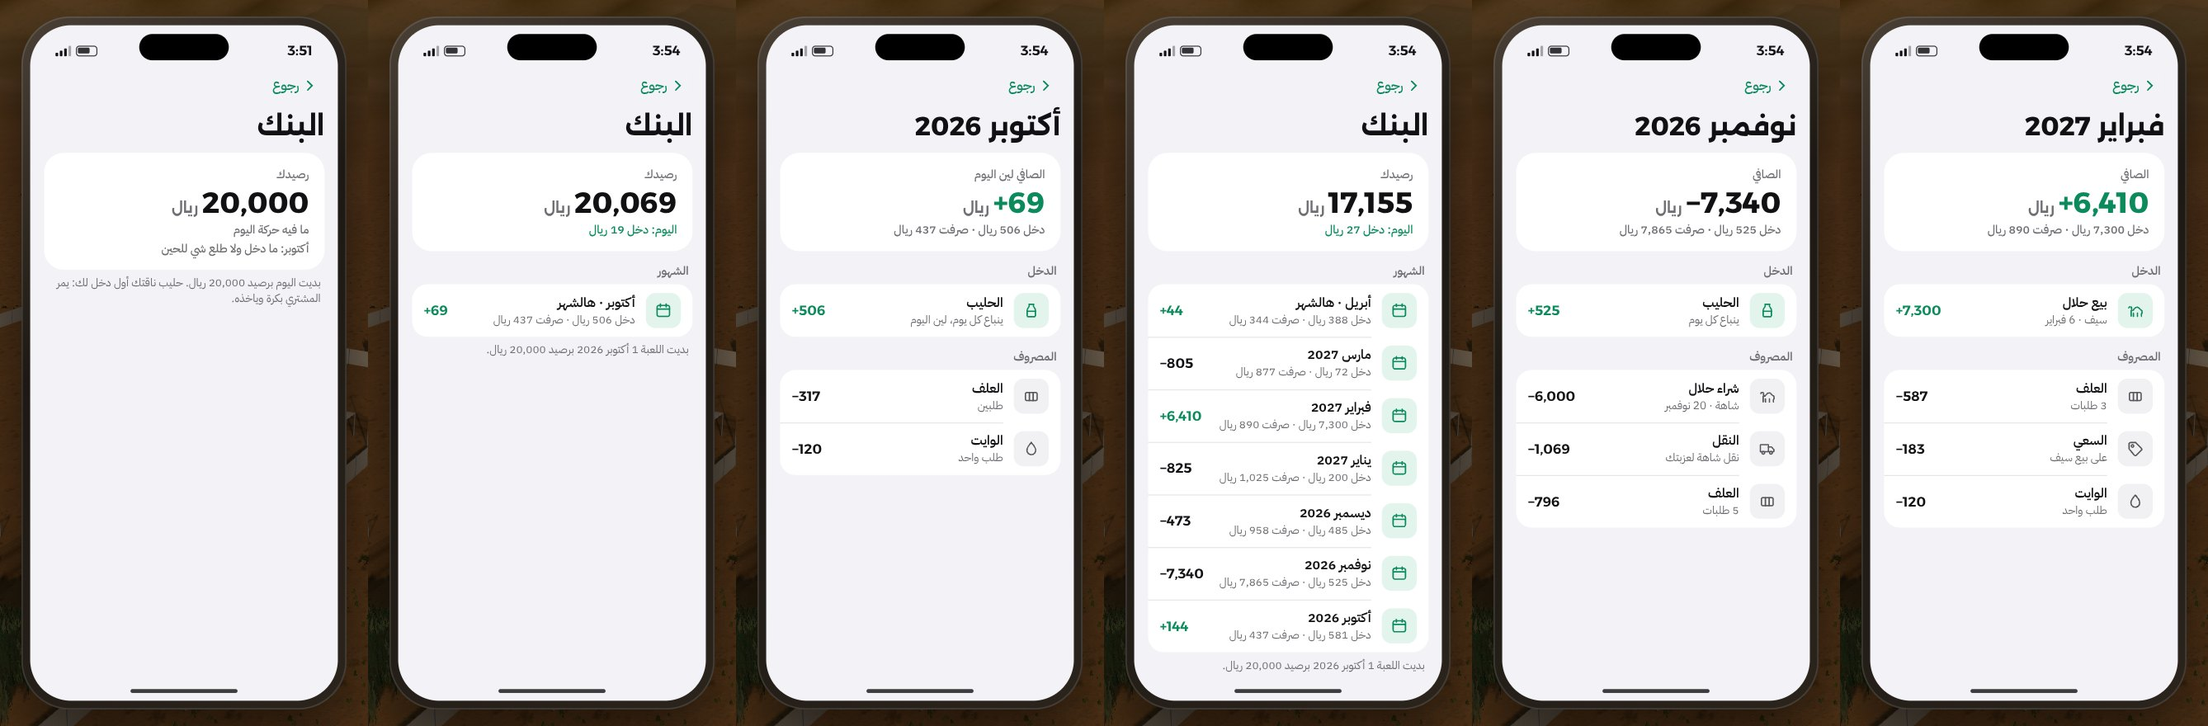
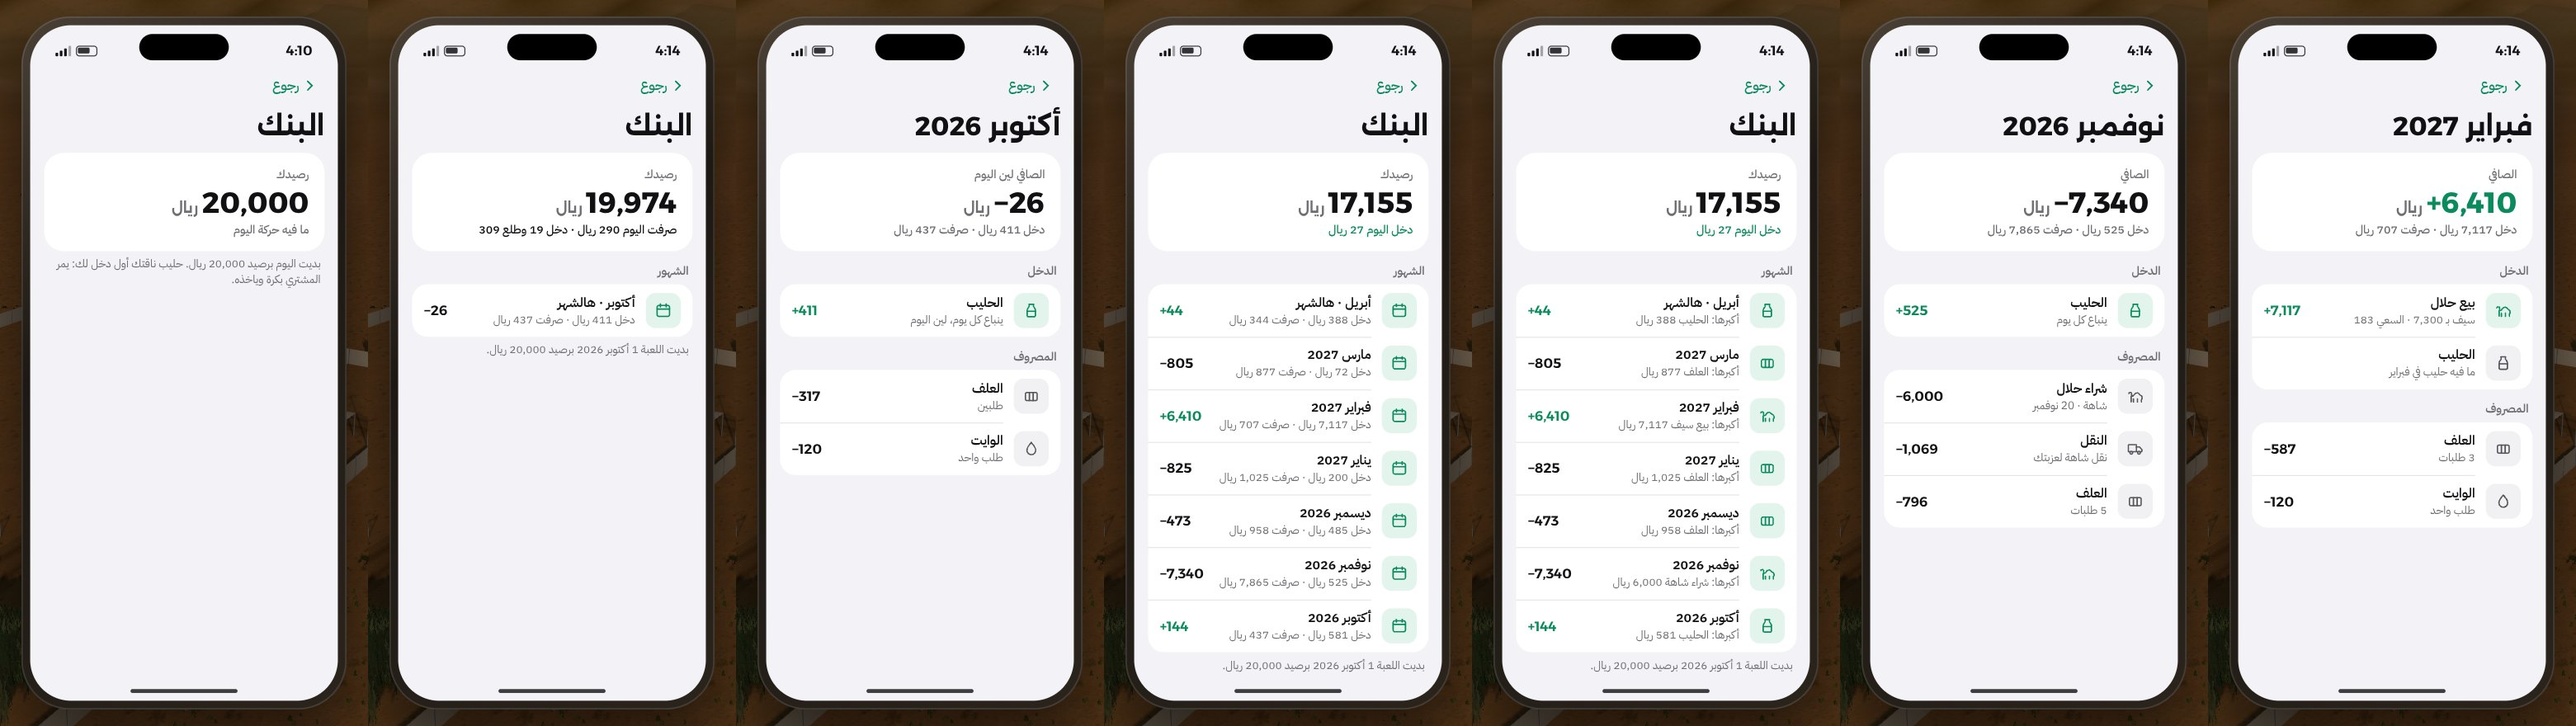
Bank design: act on the review of 9db7f30
- Today's line agrees with the home widget: the net first in its words
  («صرفت اليوم 290 ريال»), then «دخل 19 وطلع 309» when money moved both
  ways; green only when money only came in. Drawn on 22 Oct after that
  day's orders (todayNet -290: milk +19, alfalfa -189, tanker -120), the
  moment now taken after the day's top-up.
- Each row counts its own thing: نقلة, علاج, جائزة, تلقيح, منشأة; several
  sales and purchases by head.
- Refs: a facility by the العزبة app's name, never a raw id or enum (the
  dump gives refKind and null for a ref it cannot name); a transport row
  phrased by its reason (camel home, to the stud, a festival there and
  back), read from the rows beside it since the ledger does not keep it.
- السعي goes with its sale: the sale row is what reached the player
  (+7,117: «سيف بـ 7,300 · السعي 183»), as الحراج says «يوصلك بعد السعي»;
  month in and out follow (Feb: in 7,117, out 707, net unchanged).
- A month without milk says so; day one drops the repeated month line,
  and the milk buyer's note shows only when the day's milking sells some.
- The alternative main screen drawn beside it: each month names its
  biggest movement, with that kind's icon («أكبرها: شراء شاهة 6,000 ريال»).
- DRY=1 prints each screen's words without a browser.

Seven screens, all fit (scrollHeight 628 = clientHeight), no wraps; the
sums are checked before drawing (opening + month nets = cash; today's
in - out = todayNet).
[…]

diff --git a/design/ui/phone_bank_data.dart b/design/ui/phone_bank_data.dart
@@ -1,5 +1,6 @@
 // The bank design's data (design/ui/phone_bank.cjs): a new game played forward by the rules engine itself, its
-// ledger read at three moments: day one, a month in (milk and feed only), and six and a half months in. Nothing here
+// ledger read at three moments: day one; 22 October after that day's orders (money in and out the same day: the
+// milk, an alfalfa order and a tanker); and 15 April 2027, six and a half months in. Nothing here
 // is example content: every row is one the engine wrote (Sim.pay, Sim.bill). Only the player's choices are scripted,
 // a careful beginner's (a game choice, for the picture):
 //   * feed and water topped up to three weeks when under ten days, as the bot does (packages/marah_domain/lib/src/
@@ -35,19 +36,38 @@ void main(List<String> args) {
   final log = <String>[];
 
   // the moment as the bank would show it: the balance, today's net (GameView.todayNet, as the home widget has it),
-  // and every ledger row, its camel or festival named where it has one
+  // the milk sold at today's milking (what the milk app reads: farm.milk.sold), and every ledger row with what its
+  // ref points at: a camel or a festival by its name, a facility by its enum name (the screens name it as the العزبة
+  // app does), never the raw id (null when the ref is found nowhere). A transport row's reason is not in the ledger:
+  // it is read here from the rows beside it (a purchase of the same camel that day: the camel trucked home; a
+  // festival's id: there and back; else a mating's: the female trucked to the stud, handlers.dart _mate).
   void take(String key) {
     final v = view();
     final w = game.state.world;
-    String? refName(String? ref) {
-      if (ref == null) return null;
-      for (final c in w.camels.values) {
-        if (c.id.value == ref) return c.name;
-      }
+    final ledger = v.me.ledger;
+    ({String? kind, String? name}) refOf(String? ref) {
+      if (ref == null) return (kind: null, name: null);
+      final c = w.camels[CamelId(ref)];
+      if (c != null) return (kind: 'camel', name: c.name);
       for (final f in w.festivals.values) {
-        if (f.id.value == ref) return f.name;
+        if (f.id.value == ref) return (kind: 'festival', name: f.name);
       }
-      return ref; // (a facility's name)
+      for (final f in Facility.values) {
+        if (f.name == ref) return (kind: 'facility', name: f.name);
+      }
+      return (kind: null, name: null);
+    }
+
+    String? why(LedgerEntry l) {
+      if (l.category != LedgerCategory.transport) return null;
+      if (refOf(l.ref).kind == 'festival') return 'festival';
+      final bought = ledger.any(
+        (x) =>
+            x.category == LedgerCategory.purchase &&
+            x.ref == l.ref &&
+            x.day == l.day,
+      );
+      return bought ? 'purchase' : 'mating';
     }
 
     (out['moments']! as List).add({
@@ -58,16 +78,19 @@ void main(List<String> args) {
       'todayNet': v.todayNet.value,
       'milkIncomeToday': v.milkIncomeToday,
       'milkThisMonth': v.milkThisMonth.value,
+      'milkSold': v.milk.fold<double>(0, (n, m) => n + m.sold),
       'herd': v.herd.length,
       'ledger': [
-        for (final l in v.me.ledger)
+        for (final l in ledger)
           {
             'day': l.day.value,
             'date': l.day.date.toIso8601String().substring(0, 10),
             'cat': l.category.name,
             'amount': l.amount.value,
             'ref': l.ref,
-            'refName': refName(l.ref),
+            'refKind': refOf(l.ref).kind,
+            'refName': refOf(l.ref).name,
+            'why': why(l),
             'month': l.month,
           },
       ],
@@ -115,6 +138,7 @@ void main(List<String> args) {
     final v = view();
     final d = v.today.date;
     topUp();
+    if (d.month == 10 && d.day == 22) take('october');
     if (d.month == 11 && d.day == 20) {
       final cash = v.me.cash.value;
       final pick =
@@ -189,8 +213,6 @@ void main(List<String> args) {
     game.advanceDays(1);
     final problems = checkInvariants(game.state);
     if (problems.isNotEmpty) throw StateError(problems.first);
-    final t = game.today.date;
-    if (t.month == 10 && t.day == 27) take('october');
   }
   take('april');
   out['log'] = log;

diff --git a/design/ui/README.md b/design/ui/README.md
@@ -9,7 +9,7 @@ These mockups were reviewed by agents and approved by the owner. Only the inform
 | `phone_supplies.html`, `phone_supplies_water.jpg`, `phone_supplies_feed.jpg` | الوايت and العلف in the phone, and the home screen's date and season (approved 2026-11-12). Add `&big=1` to see a screen as the game enlarges it. |
 | `phone_start_home.jpg`, `phone_start_milk.jpg`, `phone_start_build.jpg` (drawn by `phone_start.cjs`) | The new start (one nursing she-camel and her calf, SAR 20,000): the home screen with الحليب, العزبة and الحراج, the milk app (sold every day; how much is left for the calf) and the farm app (what you have, and the facilities you can buy and their prices), approved 2026-11-13. |
 | `phone_haraj.jpg` (drawn by `phone_haraj.cjs` with `phone_haraj.css`) | الحراج on the engine: the listings, a camel's page (buy, or haggle three times a seller), selling one's own camel (listed at one's price or to the broker now), and one's listings with their offers; the old design's «على السوم» tab and live auction left out (every listing takes offers; the auctions come later), approved 2026-11-13. |
-| `phone_bank.jpg` (drawn by `phone_bank.cjs` with `phone_bank.css`, its figures from `phone_bank_data.dart`, dumped to `phone_bank.json`) | **Awaiting the owner's approval.** البنك on the engine's own ledger (a new game, seed 4242, played forward by the engine): the main screen on day one, a month in and six and a half months in (the balance, today's money in and out, each month's in, out and net, the opening balance in a line), and a month opened (what came in and what went out by kind, and the net): October (milk, feed, one tanker), November (a camel bought and trucked) and February (the calf sold, السعي, no milk). The approved design's تحويل, طلب مبلغ, الرواتب and الكشف are left out: the engine has no transfers, wages are taken on the 1st by themselves, and the months are the statement. |
+| `phone_bank.jpg` (drawn by `phone_bank.cjs` with `phone_bank.css`, its figures from `phone_bank_data.dart`, dumped to `phone_bank.json`) | **Awaiting the owner's approval.** البنك on the engine's own ledger (a new game, seed 4242, played forward by the engine): the main screen on day one, on 22 October after a day of money both ways (the net first in the home widget's words, then what came in and went out) and six and a half months in (each month's in, out and net; beside it the alternative, each month naming its biggest movement), and a month opened by kind: October, November (a camel bought and trucked) and February (the calf sold, shown as what reached the player after السعي; no milk). The approved design's تحويل, طلب مبلغ, الرواتب and الكشف are left out: the engine has no transfers, wages are taken on the 1st by themselves, and the months are the statement. |
 
 ## The map HUD
 
